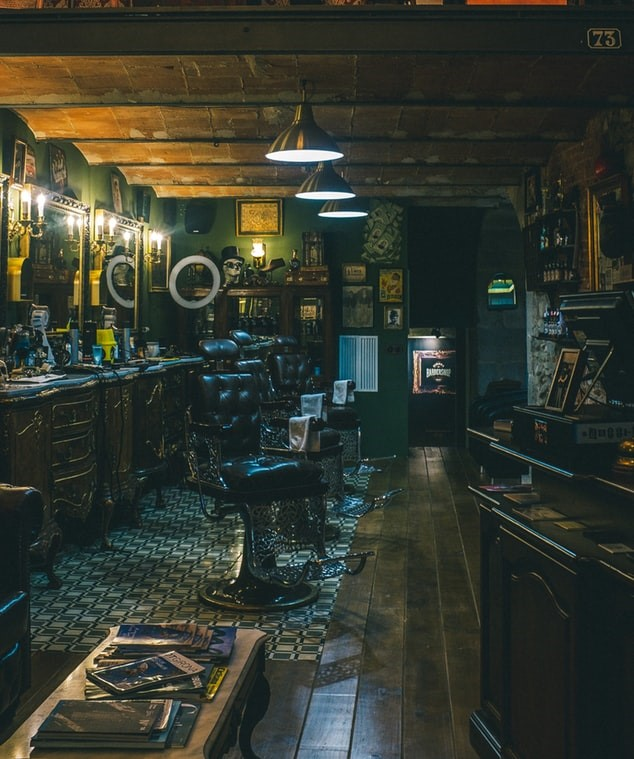
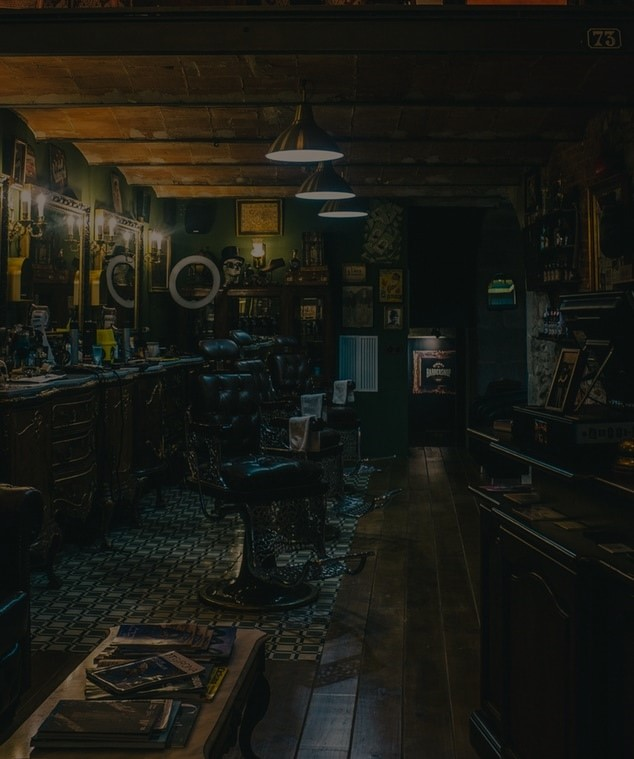
image

diff --git a/app/templates/pages/homepage.html b/app/templates/pages/homepage.html
@@ -7,7 +7,7 @@
             <div class="container">
                 <div class="row">
                     <div class="col-12 col-lg-6 mb-4 mb-lg-0 wow zoomIn" data-wow-delay="0.1s">
-                        <img class="media img-fluid" src="{{ url_for('static', filename='css/images/on.jpg') }}" alt="">
+                        <img class="media img-fluid" src="{{ url_for('static', filename='css/images/bbb.jpg') }}" alt="">
                     </div>
                     <div class="col-12 col-lg-6 text-center text-lg-left wow zoomIn" data-wow-delay="0.1s">
                         <div class="about-card mb-3">
